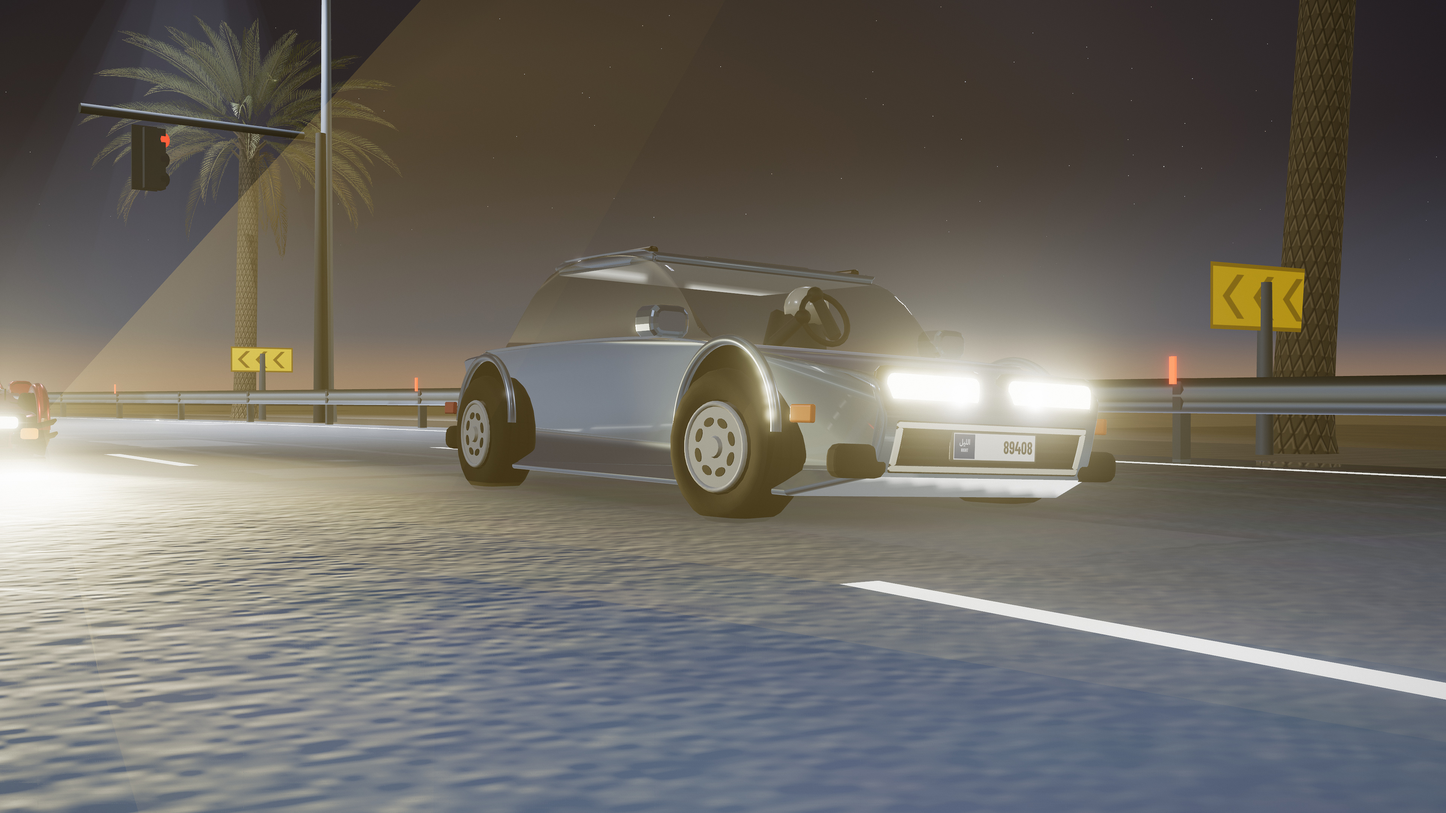
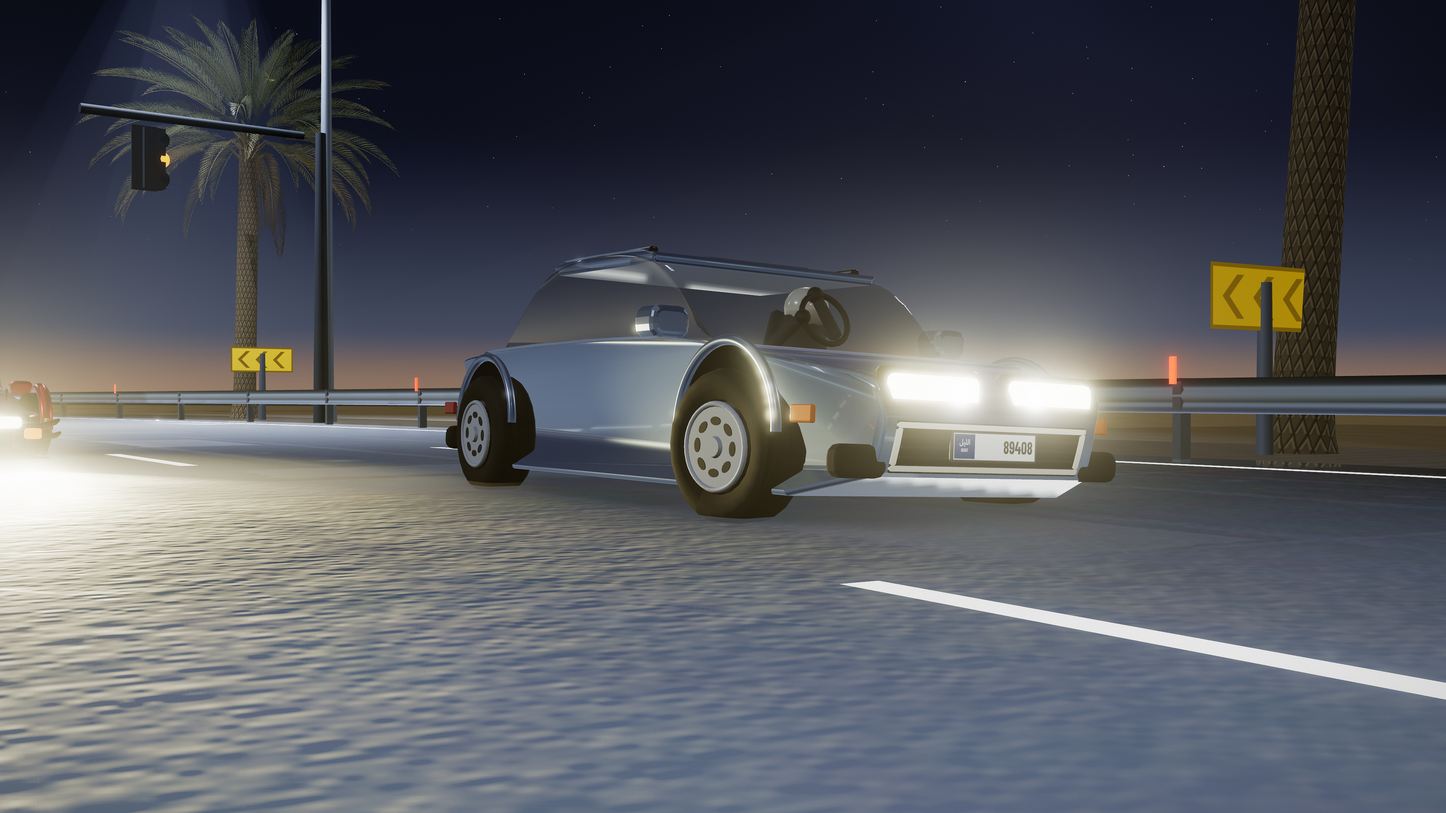
ik traffic still: re-rendered with the softened headlight beams
The frame committed in 4fb6a0fe predated 42c3b154 (beam cones as lit
air). The player's own beam, seen from ahead and in lane, had drawn as a
brown sheet across the top-left two thirds of the frame; it is now a
faint shaft fading at its edges, and the sky and the palms behind it
read again.

stillblacks on the new frame: p1 13 (bar 32; it was 37 and failing),
zenith B-R 16.4, Y<64 chroma 17.8 — every bar met, so all six stills
now pass.

Claude-Session: https://claude.ai/code/session_019WLtJHCAZzoproS72tVF5f

diff --git a/press/ik/4k/README.md b/press/ik/4k/README.md
@@ -9,7 +9,7 @@ Every number is read off the engine at the frame of the exposure — the picture
 | [sweep](sweep.jpg) | Ras Al-Ard at 120 km/h, wheel straight | fronts 0 / 0 rad; roll -1.01°, pitch 1.1°; yaw 0.7°; hubs off road 0.0/0.0/0.0/0.0 mm; wing -0.022 rad; rival storm-s8 roll -0.94°, hubs 0.0/0.0/0.0/0.0 mm, fronts 0.166 / 0.186, wing -0.022; car in the lane at lat -1.7419408346484029, camera at lat 5.6 of ±7; 119 km/h, 5.57 m/s² lateral, buffer 3840x2160 |
 | [brake](brake.jpg) | braking from 200 km/h, rear quarter | fronts 0 / 0 rad; roll 0.38°, pitch 2.61°; hubs off road 0.0/0.0/0.0/0.0 mm; wing 0.462 rad; car in the lane at lat 1.75, camera at lat -1.45 of ±7; 155 km/h, -1.46 m/s² lateral, buffer 3840x2160 |
 | [drift](drift.jpg) | drift, 23 frames in | fronts -0.518 / -0.388 rad; roll -0.94°, pitch 0.93°; yaw 32.1°; hubs off road 0.0/0.0/0.0/0.0 mm; wing 0.413 rad; car in the lane at lat 1.75, camera at lat 1.04 of ±7; 236 km/h, 7.08 m/s² lateral, buffer 3840x2160 |
-| [traffic](traffic.jpg) | a civilian through Ras Al-Ard at 120 km/h | fronts 0 / 0 rad; roll -1.06°, pitch 1.1°; yaw 0.7°; hubs off road 0.0/0.0/0.0/0.0 mm; wing -0.022 rad; civilian roll -2.5°, hubs 0.0/0.0/0.0/0.0 mm, fronts 0.169 / 0.188; car in the lane at lat 1.7582629764012772, camera at lat 2.75 of ±7; 119 km/h, 5.91 m/s² lateral, buffer 3840x2160 |
+| [traffic](traffic.jpg) | a civilian through Ras Al-Ard at 120 km/h | fronts 0 / 0 rad; roll -1.08°, pitch 1.1°; hubs off road 0.0/0.0/0.0/0.0 mm; wing -0.022 rad; civilian roll -2.5°, hubs 0.0/0.0/0.0/0.0 mm, fronts 0.169 / 0.187; car in the lane at lat 1.7578580060560125, camera at lat 2.75 of ±7; 119 km/h, 5.97 m/s² lateral, buffer 3840x2160 |
 | [driver](driver.jpg) | driver at 85% lock, through the side glass, 16 h | fronts -0.442 / -0.342 rad; roll 0.04°, pitch 0°; hubs off road 0.0/0.0/0.0/0.0 mm; wing -0.001 rad; hand wheel -2.04 rad; sun on the driver's flank 0.43 (cos); car in the lane at lat 1.75, camera at lat -1.85 of ±7; 22 km/h, -0.03 m/s² lateral, buffer 3840x2160 |
 
 The .png files are the lossless frames (kept out of git); the .jpg copies are what the repository tracks, and each frame's .json is the state it was read from.
